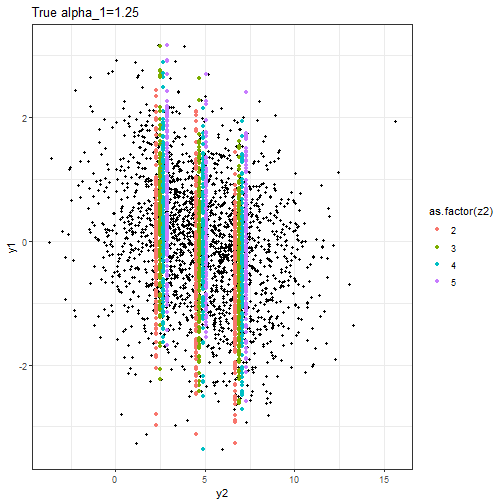
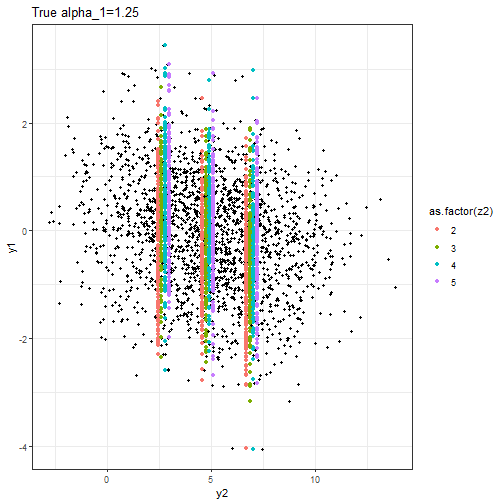
upd 04

diff --git a/lec/04-Instrumental-Variables/04-Instrumental-Variables.html b/lec/04-Instrumental-Variables/04-Instrumental-Variables.html
@@ -182,24 +182,6 @@ It's harder when `\(X\)` is continuous.
 
 
 
----
-class: MSU
-# Where we're at
-`$$y = \beta_0 + \beta_1 x_1 + \beta_2 D + \beta_3 D \times x_1 + u$$`
-Let's say:
-- `\(x_1\)` is continuous, 
-- `\(D\)` is binary `\(\{0,1\}\)`
-
-----
-Let's calculate some `\(E[y]\)` (that is, `\(\hat{y}\)`):
-- `\(E[y|x_1 = 0, D=1]\)`:
-- `\(E[y|x_1 = 2, D=1]\)`:
-- `\(E[y|x_1 = 2, D=0]\)`:
-
-
-
-
-
 
 
 
@@ -1561,20 +1543,20 @@ class: MSU
 ## lm(formula = y2 ~ z1 + z2, data = df1)
 ## 
 ## Residuals:
-##     Min      1Q  Median      3Q     Max 
-## -7.9342 -1.4970  0.0474  1.5309  8.5340 
+##    Min     1Q Median     3Q    Max 
+## -7.742 -1.497 -0.029  1.500  8.055 
 ## 
 ## Coefficients:
 ##             Estimate Std. Error t value Pr(&gt;|t|)    
-## (Intercept) -0.31832    0.20781  -1.532    0.126    
-## z1           2.20771    0.06110  36.132  &lt; 2e-16 ***
-## z2           0.19475    0.04468   4.359 1.38e-05 ***
+## (Intercept) -0.03775    0.19646  -0.192    0.848    
+## z1           2.12930    0.05880  36.213  &lt; 2e-16 ***
+## z2           0.17397    0.04279   4.065 4.98e-05 ***
 ## ---
 ## Signif. codes:  0 '***' 0.001 '**' 0.01 '*' 0.05 '.' 0.1 ' ' 1
 ## 
-## Residual standard error: 2.223 on 1997 degrees of freedom
-## Multiple R-squared:  0.3964,	Adjusted R-squared:  0.3958 
-## F-statistic: 655.8 on 2 and 1997 DF,  p-value: &lt; 2.2e-16
+## Residual standard error: 2.178 on 1997 degrees of freedom
+## Multiple R-squared:  0.3997,	Adjusted R-squared:  0.3991 
+## F-statistic: 664.9 on 2 and 1997 DF,  p-value: &lt; 2.2e-16
 ```
 ---
 class: MSU 
@@ -1590,19 +1572,19 @@ class: MSU
 ## 
 ## Residuals:
 ##     Min      1Q  Median      3Q     Max 
-## -3.4328 -0.6176  0.0256  0.6375  2.8933 
+## -3.7135 -0.6185  0.0149  0.6713  3.3078 
 ## 
 ## Coefficients:
-##             Estimate Std. Error t value Pr(&gt;|t|)    
-## (Intercept)  0.35738    0.06696   5.337 1.05e-07 ***
-## y2hat        1.05288    0.09707  10.847  &lt; 2e-16 ***
-## z1          -2.71237    0.21450 -12.645  &lt; 2e-16 ***
+##              Estimate Std. Error t value Pr(&gt;|t|)    
+## (Intercept)  0.002838   0.084525   0.034    0.973    
+## y2hat        1.107849   0.109714  10.098   &lt;2e-16 ***
+## z1          -2.715576   0.235246 -11.544   &lt;2e-16 ***
 ## ---
 ## Signif. codes:  0 '***' 0.001 '**' 0.01 '*' 0.05 '.' 0.1 ' ' 1
 ## 
-## Residual standard error: 0.9404 on 1997 degrees of freedom
-## Multiple R-squared:  0.1531,	Adjusted R-squared:  0.1522 
-## F-statistic: 180.5 on 2 and 1997 DF,  p-value: &lt; 2.2e-16
+## Residual standard error: 0.9714 on 1997 degrees of freedom
+## Multiple R-squared:  0.125,	Adjusted R-squared:  0.1241 
+## F-statistic: 142.6 on 2 and 1997 DF,  p-value: &lt; 2.2e-16
 ```
 
 
@@ -1611,7 +1593,7 @@ class: MSU
 # Simultaneity
 
 ### The second-stage coefficient
-We get a pretty accurate estimate for `\(\alpha_1=1.05\)` from the second-stage having used `\(z_2\)` to instrument for `\(y_2\)`.
+We get a pretty accurate estimate for `\(\alpha_1=1.11\)` from the second-stage having used `\(z_2\)` to instrument for `\(y_2\)`.
 
 ---
 class: MSU
